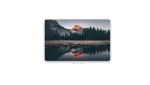
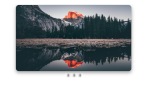
Added carousel arrows

diff --git a/tool/appTemplates.js b/tool/appTemplates.js
@@ -28,5 +28,5 @@ let templatePro001 = {"typeName":"templatePro001","image":"templatePro001.png","
 let templatePro002 = {"typeName":"templatePro002","image":"templatePro002.png","description":"Background image, right boxed texts",     "styleName":"","childsAllowed":"all","tag":"div","style":[],"phone":[],"attributes":[],"childs":[{"typeName":"divStack","description":"Stack","childsAllowed":"stack","tag":"div","style":[["height","500px",true],["width","100%",true]],"phone":[],"attributes":[],"childs":[{"typeName":"divStackChild","description":"Stack child","childsAllowed":"all","tag":"div","style":[["height","500px",true],["width","100%",true]],"phone":[],"attributes":[],"childs":[{"typeName":"imageBackground","description":"CSS background image","childsAllowed":"all","tag":"div","style":[["background","lightgrey",true],["background-position","center",true],["background-repeat","no-repeat",true],["background-size","cover",true],["background-image","url(\"./imagesTool/image3.jpg\")",true]],"phone":[],"attributes":[],"childs":[],"text":""}],"text":""},{"typeName":"divStackChild","description":"Stack child","childsAllowed":"all","tag":"div","style":[["height","100%",true],["right","0",true],["width","50%",true]],"phone":[["bottom","0",true],["height","max-content",true],["left","0",true],["width","100%",true]],"attributes":[],"childs":[{"typeName":"div","description":"Div","childsAllowed":"all","tag":"div","style":[["backdrop-filter","blur(3px)",true],["background","rgba(0, 0, 0, 0.5)",true],["height","100%",true],["padding","32px",true],["width","100%",true]],"phone":[],"attributes":[],"childs":[{"typeName":"divFlex","description":"Flex","childsAllowed":"flex","tag":"div","style":[["flex-direction","column",true],["height","100%",true],["justify-content","center",true]],"phone":[],"attributes":[],"childs":[{"typeName":"divFlexChild","description":"Flex child","childsAllowed":"all","tag":"div","style":[],"phone":[],"attributes":[],"childs":[{"typeName":"titleh1","description":"H1","childsAllowed":"none","tag":"h1","style":[["color","white",true],["font-size","2em",true],["font-weight","800",true],["height","max-content",true],["padding","0",true],["width","100%",true]],"phone":[],"attributes":[],"childs":[],"text":"To the infinity and beyond"}],"text":""},{"typeName":"divFlexChild","description":"Flex child","childsAllowed":"all","tag":"div","style":[["padding","0 0 32px 0",true]],"phone":[],"attributes":[],"childs":[{"typeName":"titleh2","description":"H2","childsAllowed":"none","tag":"h2","style":[["color","lightgrey",true],["font-size","1.5em",true],["font-weight","300",true],["height","max-content",true],["padding","0",true],["width","100%",true]],"phone":[],"attributes":[],"childs":[],"text":"There are no boundaries"}],"text":""},{"typeName":"divFlexChild","description":"Flex child","childsAllowed":"all","tag":"div","style":[],"phone":[],"attributes":[],"childs":[{"typeName":"linkBox","description":"Link box","childsAllowed":"all","tag":"a","style":[["text-decoration","none",true]],"phone":[],"attributes":[["href","/"],["target","_blank"]],"childs":[{"typeName":"div","description":"Div","childsAllowed":"all","tag":"div","style":[["background","black",true],["border","solid 1px lightgrey",true],["height","max-content",true],["padding","8px 16px",true]],"phone":[],"attributes":[],"childs":[{"typeName":"text","description":"Text","childsAllowed":"none","tag":"div","style":[["color","white",true],["font-size","1em",true],["height","max-content",true],["width","100%",true]],"phone":[],"attributes":[],"childs":[],"text":"Armadillo"}],"text":""}],"text":""}],"text":""}],"text":""}],"text":""}],"text":""}],"text":""}],"text":""}
 let templatePro003 = {"typeName":"templatePro003","image":"templatePro003.png","description":"Background image, left boxed texts",      "styleName":"","childsAllowed":"all","tag":"div","style":[],"phone":[],"attributes":[],"childs":[{"typeName":"divStack","description":"Stack","childsAllowed":"stack","tag":"div","style":[["height","500px",true],["width","100%",true]],"phone":[],"attributes":[],"childs":[{"typeName":"divStackChild","description":"Stack child","childsAllowed":"all","tag":"div","style":[["height","500px",true],["width","100%",true]],"phone":[],"attributes":[],"childs":[{"typeName":"imageBackground","description":"CSS background image","childsAllowed":"all","tag":"div","style":[["background","lightgrey",true],["background-position","center",true],["background-repeat","no-repeat",true],["background-size","cover",true],["background-image","url(\"./imagesTool/image7.jpg\")",true]],"phone":[],"attributes":[],"childs":[],"text":""}],"text":""},{"typeName":"divStackChild","description":"Stack child","childsAllowed":"all","tag":"div","style":[["height","calc(100% - 32px)",true],["left","16px",true],["top","16px",true],["width","25%",true]],"phone":[["bottom","8px",true],["height","max-content",true],["left","8px",true],["right","8px",true],["top","unset",true],["width","calc(100% - 16px)",true]],"attributes":[],"childs":[{"typeName":"div","description":"Div","childsAllowed":"all","tag":"div","style":[["backdrop-filter","blur(3px)",true],["background","rgba(100, 100,100,0.5)",true],["height","100%",true],["padding","32px",true],["width","100%",true]],"phone":[],"attributes":[],"childs":[{"typeName":"divFlex","description":"Flex","childsAllowed":"flex","tag":"div","style":[["flex-direction","column",true],["height","100%",true],["justify-content","center",true]],"phone":[],"attributes":[],"childs":[{"typeName":"divFlexChild","description":"Flex child","childsAllowed":"all","tag":"div","style":[],"phone":[],"attributes":[],"childs":[{"typeName":"titleh1","description":"H1","childsAllowed":"none","tag":"h1","style":[["color","white",true],["font-size","2em",true],["font-weight","800",true],["height","max-content",true],["padding","0",true],["width","100%",true]],"phone":[],"attributes":[],"childs":[],"text":"To the infinity and beyond"}],"text":""},{"typeName":"divFlexChild","description":"Flex child","childsAllowed":"all","tag":"div","style":[["padding","0 0 32px 0",true]],"phone":[],"attributes":[],"childs":[{"typeName":"titleh2","description":"H2","childsAllowed":"none","tag":"h2","style":[["color","lightgrey",true],["font-size","1.5em",true],["font-weight","300",true],["height","max-content",true],["padding","0",true],["width","100%",true]],"phone":[],"attributes":[],"childs":[],"text":"There are no boundaries"}],"text":""},{"typeName":"divFlexChild","description":"Flex child","childsAllowed":"all","tag":"div","style":[],"phone":[],"attributes":[],"childs":[{"typeName":"linkBox","description":"Link box","childsAllowed":"all","tag":"a","style":[["text-decoration","none",true]],"phone":[],"attributes":[["href","/"],["target","_blank"]],"childs":[{"typeName":"div","description":"Div","childsAllowed":"all","tag":"div","style":[["background","lightgrey",true],["border","solid 1px lightgrey",true],["border-radius","5px",true],["height","max-content",true],["padding","8px 16px",true]],"phone":[],"attributes":[],"childs":[{"typeName":"text","description":"Text","childsAllowed":"none","tag":"div","style":[["color","black",true],["font-size","1em",true],["font-weight","normal",true],["height","max-content",true],["text-transform","uppercase",true],["width","100%",true]],"phone":[],"attributes":[],"childs":[],"text":"Armadillo"}],"text":""}],"text":""}],"text":""}],"text":""}],"text":""}],"text":""}],"text":""}],"text":""}
 let templatePro004 = {"typeName":"templatePro004","image":"templatePro004.png","description":"Background image, bootm boxed texts",     "styleName":"","childsAllowed":"all","tag":"div","style":[],"phone":[],"attributes":[],"childs":[{"typeName":"divStack","description":"Stack","childsAllowed":"stack","tag":"div","style":[["height","500px",true],["width","100%",true]],"phone":[],"attributes":[],"childs":[{"typeName":"divStackChild","description":"Stack child","childsAllowed":"all","tag":"div","style":[["height","500px",true],["width","100%",true]],"phone":[],"attributes":[],"childs":[{"typeName":"imageBackground","description":"CSS background image","childsAllowed":"all","tag":"div","style":[["background","lightgrey",true],["background-position","center",true],["background-repeat","no-repeat",true],["background-size","cover",true],["background-image","url(\"./imagesTool/image10.jpg\")",true]],"phone":[],"attributes":[],"childs":[],"text":""}],"text":""},{"typeName":"divStackChild","description":"Stack child","childsAllowed":"all","tag":"div","style":[["bottom","16px",true],["height","max-content",true],["left","16px",true],["right","16px",true]],"phone":[["bottom","8px",true],["height","max-content",true],["left","8px",true],["right","8px",true],["top","unset",true],["width","calc(100% - 16px)",true]],"attributes":[],"childs":[{"typeName":"div","description":"Div","childsAllowed":"all","tag":"div","style":[["backdrop-filter","blur(3px)",true],["background","rgba(0, 0, 0,0.5)",true],["height","100%",true],["padding","32px",true],["width","100%",true]],"phone":[],"attributes":[],"childs":[{"typeName":"divFlex","description":"Flex","childsAllowed":"flex","tag":"div","style":[["align-items","center",true],["flex-direction","column",true],["height","100%",true],["justify-content","center",true]],"phone":[],"attributes":[],"childs":[{"typeName":"divFlexChild","description":"Flex child","childsAllowed":"all","tag":"div","style":[],"phone":[],"attributes":[],"childs":[{"typeName":"titleh1","description":"H1","childsAllowed":"none","tag":"h1","style":[["color","white",true],["font-size","2em",true],["font-weight","800",true],["height","max-content",true],["padding","0",true],["text-align","center",true],["width","100%",true]],"phone":[],"attributes":[],"childs":[],"text":"To the infinity and beyond"}],"text":""},{"typeName":"divFlexChild","description":"Flex child","childsAllowed":"all","tag":"div","style":[["padding","0 0 32px 0",true]],"phone":[],"attributes":[],"childs":[{"typeName":"titleh2","description":"H2","childsAllowed":"none","tag":"h2","style":[["color","lightgrey",true],["font-size","1.5em",true],["font-weight","300",true],["height","max-content",true],["padding","0",true],["text-align","center",true],["width","100%",true]],"phone":[],"attributes":[],"childs":[],"text":"There are no boundaries"}],"text":""},{"typeName":"divFlexChild","description":"Flex child","childsAllowed":"all","tag":"div","style":[],"phone":[],"attributes":[],"childs":[{"typeName":"linkBox","description":"Link box","childsAllowed":"all","tag":"a","style":[["text-decoration","none",true]],"phone":[],"attributes":[["href","/"],["target","_blank"]],"childs":[{"typeName":"div","description":"Div","childsAllowed":"all","tag":"div","style":[["background","black",true],["border","solid 1px lightgrey",true],["border-radius","5px",true],["height","max-content",true],["padding","8px 16px",true]],"phone":[],"attributes":[],"childs":[{"typeName":"text","description":"Text","childsAllowed":"none","tag":"div","style":[["color","lightgrey",true],["font-size","1em",true],["font-weight","normal",true],["height","max-content",true],["text-align","center",true],["text-transform","uppercase",true],["width","100%",true]],"phone":[],"attributes":[],"childs":[],"text":"Armadillo"}],"text":""}],"text":""}],"text":""}],"text":""}],"text":""}],"text":""}],"text":""}],"text":""}
-
+let templatePro005 = {"typeName":"templatePro005","image":"templatePro005.png","description":"Carousel with texts",                     "styleName":"","childsAllowed":"all","tag":"div","style":[],"phone":[],"attributes":[],"childs":[{"typeName":"carouselArrows","description":"Carousel with arrows","childsAllowed":"none","tag":"div","style":[],"phone":[],"attributes":[["class","carouselArrows"]],"childs":[{"typeName":"carouselFrame","description":"Carousel frame","childsAllowed":"none","tag":"div","style":[["height","500px",true]],"phone":[],"attributes":[],"childs":[{"typeName":"carouselImages","description":"Carousel images","childsAllowed":"carouselImage","tag":"div","style":[],"phone":[],"attributes":[["name","images"]],"childs":[{"typeName":"carouselImage","description":"Carousel image","childsAllowed":"all","tag":"div","style":[["background-image","url(\"./imagesTool/image9.jpg\")",true]],"phone":[],"attributes":[["name","carouselImage"]],"childs":[{"typeName":"divFlex","description":"Flex","childsAllowed":"divFlexChild","tag":"div","style":[["align-items","center",true],["flex-direction","column",true],["height","100%",true],["justify-content","center",true],["width","100%",true]],"phone":[],"attributes":[],"childs":[{"typeName":"divFlexChild","description":"Flex child","childsAllowed":"all","tag":"div","style":[["padding","32px",true]],"phone":[],"attributes":[],"childs":[{"typeName":"titleh1","description":"H1","childsAllowed":"none","tag":"h1","style":[["color","white",true],["font-size","2em",true],["font-weight","800",true],["height","max-content",true],["padding","0",true],["text-align","center",true],["width","100%",true]],"phone":[],"attributes":[],"childs":[],"text":"Enjoy teamworking"}],"text":""},{"typeName":"divFlexChild","description":"Flex child","childsAllowed":"all","tag":"div","style":[["padding","32px",true]],"phone":[],"attributes":[],"childs":[{"typeName":"titleh3","description":"H3","childsAllowed":"none","tag":"h3","style":[["color","white",true],["font-size","1.25em",true],["font-weight","600",true],["height","max-content",true],["padding","0",true],["text-align","center",true],["width","100%",true]],"phone":[],"attributes":[],"childs":[],"text":"Small improvements that makes it great"}],"text":""}],"text":""}],"text":""},{"typeName":"carouselImage","description":"Carousel image","childsAllowed":"all","tag":"div","style":[["background-image","url(\"./imagesTool/image8.jpg\")",true]],"phone":[],"attributes":[["name","carouselImage"]],"childs":[{"typeName":"divFlex","description":"Flex","childsAllowed":"divFlexChild","tag":"div","style":[["align-items","center",true],["flex-direction","column",true],["height","100%",true],["justify-content","center",true],["width","100%",true]],"phone":[],"attributes":[],"childs":[{"typeName":"divFlexChild","description":"Flex child","childsAllowed":"all","tag":"div","style":[["padding","32px",true]],"phone":[],"attributes":[],"childs":[{"typeName":"titleh1","description":"H1","childsAllowed":"none","tag":"h1","style":[["color","white",true],["font-size","2em",true],["font-weight","800",true],["height","max-content",true],["padding","0",true],["text-align","center",true],["width","100%",true]],"phone":[],"attributes":[],"childs":[],"text":"Investing in your clients"}],"text":""},{"typeName":"divFlexChild","description":"Flex child","childsAllowed":"all","tag":"div","style":[["padding","32px",true]],"phone":[],"attributes":[],"childs":[{"typeName":"titleh3","description":"H3","childsAllowed":"none","tag":"h3","style":[["color","white",true],["font-size","1.25em",true],["font-weight","600",true],["height","max-content",true],["padding","0",true],["text-align","center",true],["width","100%",true]],"phone":[],"attributes":[],"childs":[],"text":"There are no boundaries"}],"text":""}],"text":""}],"text":""}],"text":""}],"text":""},{"typeName":"carouselArrowLeftBox","description":"Left arrow box","childsAllowed":"none","tag":"div","style":[],"phone":[],"attributes":[["class","carouselArrow"]],"childs":[{"typeName":"carouselArrowLeft","description":"Left arrow","childsAllowed":"none","tag":"div","style":[],"phone":[],"attributes":[["onclick","setCarouselArrows(this, \"left\")"]],"childs":[],"text":""}],"text":""},{"typeName":"carouselArrowRightBox","description":"Right arrow box","childsAllowed":"none","tag":"div","style":[],"phone":[],"attributes":[["class","carouselArrow carouselArrowRight"]],"childs":[{"typeName":"carouselArrowRight","description":"Right arrow","childsAllowed":"none","tag":"div","style":[],"phone":[],"attributes":[["onclick","setCarouselArrows(this, \"right\")"]],"childs":[],"text":""}],"text":""}],"text":""}],"text":""}
 

diff --git a/tool/appTypes.js b/tool/appTypes.js
@@ -69,8 +69,7 @@ let div = {
         ['width', 'initial', true],
     ],
     attributes: [
-        ['id', 'initial'],
-        ['class', 'initial']
+        ['id', 'initial']
     ],
     script: ``,
     text: ``,
@@ -632,7 +631,7 @@ let carouselDots = {
     text: ``,
     childs: [
         {
-            typeName: 'carouselDotsFrame',
+            typeName: 'carouselFrame',
             description: 'Carousel frame',
             tag: 'div',
             childsAllowed: 'none',
@@ -649,10 +648,10 @@ let carouselDots = {
             text: ``,
             childs: [
                 {
-                    typeName: 'carouselDotsImages',
+                    typeName: 'carouselImages',
                     description: 'Carousel images',
                     tag: 'div',
-                    childsAllowed: 'carouselDotsImage',
+                    childsAllowed: 'carouselImage',
                     style: [],
                     phone: [],
                     attributes: [
@@ -661,8 +660,8 @@ let carouselDots = {
                     script: ``,
                     text: ``,
                     childs: [
-                        { typeName: 'carouselDotsImage', description: 'Carousel image', image: '', tag: 'div', childsAllowed: 'none', style: [ ['background-image','url("./imagesTool/image4.jpg")', true], ], phone: [], attributes: [], script: ``, text: ``, childs: [] },
-                        { typeName: 'carouselDotsImage', description: 'Carousel image', image: '', tag: 'div', childsAllowed: 'none', style: [ ['background-image','url("./imagesTool/image8.jpg")', true], ], phone: [], attributes: [], script: ``, text: ``, childs: [] }
+                        { typeName: 'carouselImage', description: 'Carousel image', image: '', tag: 'div', childsAllowed: 'all', style: [ ['background-image','url("./imagesTool/image4.jpg")', true], ], phone: [], attributes: [['name', 'carouselImage']], script: ``, text: ``, childs: [] },
+                        { typeName: 'carouselImage', description: 'Carousel image', image: '', tag: 'div', childsAllowed: 'all', style: [ ['background-image','url("./imagesTool/image8.jpg")', true], ], phone: [], attributes: [['name', 'carouselImage']], script: ``, text: ``, childs: [] }
                     ]
                 },
             ]
@@ -685,40 +684,72 @@ let carouselDots = {
     ]
 }
 
-let carouselDotsImage = {
-    typeName: 'carouselDotsImage',
-    description: 'Carousel image',
-    image: '',
-    tag: 'div',
-    childsAllowed: 'none',
-    style: [
-        ['background-image','url("./imagesTool/image0.jpg")', true],
-    ],
-    phone: [],
-    attributes: [],
-    script: ``,
-    text: ``,
-    childs: []
-}
-
-let carouselDotsIndicator = {
-    typeName: 'carouselDotsIndicator',
-    description: 'Carousel indicator',
-    image: '',
+let carouselArrows = {
+    typeName: 'carouselArrows',
+    description: 'Carousel with arrows',
+    image: 'previewCarouselArrows.png',
     tag: 'div',
     childsAllowed: 'none',
     style: [],
     phone: [],
     attributes: [
-        ['name', 'indicator'],
-        ['onclick', 'setCarouselDots(this)']
+       ['class', 'carouselArrows'],
     ],
     script: ``,
     text: ``,
-    childs: []
+    childs: [
+        {
+            typeName: 'carouselFrame',
+            description: 'Carousel frame',
+            tag: 'div',
+            childsAllowed: 'none',
+            style: [
+                ['border-radius', 'initial', true],
+                ['box-shadow', 'initial', true],
+                ['height', '350px', true]
+            ],
+            phone: [
+                ['height', 'initial', true]
+            ],
+            attributes: [],
+            script: ``,
+            text: ``,
+            childs: [
+                {
+                    typeName: 'carouselImages',
+                    description: 'Carousel images',
+                    tag: 'div',
+                    childsAllowed: 'carouselImage',
+                    style: [],
+                    phone: [],
+                    attributes: [
+                        ['name', 'images']
+                    ],
+                    script: ``,
+                    text: ``,
+                    childs: [
+                        { typeName: 'carouselImage', description: 'Carousel image', image: '', tag: 'div', childsAllowed: 'all', style: [ ['background-image','url("./imagesTool/image4.jpg")', true], ], phone: [], attributes: [['name', 'carouselImage']], script: ``, text: ``, childs: [] },
+                        { typeName: 'carouselImage', description: 'Carousel image', image: '', tag: 'div', childsAllowed: 'all', style: [ ['background-image','url("./imagesTool/image8.jpg")', true], ], phone: [], attributes: [['name', 'carouselImage']], script: ``, text: ``, childs: [] }
+                    ]
+                },
+            ]
+        },
+        { typeName: 'carouselArrowLeftBox', description: 'Left arrow box', tag: 'div', childsAllowed: 'none', style: [], phone: [], attributes: [ ['class', 'carouselArrow'] ], script: ``, text: ``, childs: [ { typeName: 'carouselArrowLeft', description: 'Left arrow', tag: 'div', childsAllowed: 'none', style: [], phone: [], attributes: [ ['onclick', 'setCarouselArrows(this, "left")'] ], script: ``, text: ``, childs: [] } ] },
+        { typeName: 'carouselArrowRightBox', description: 'Right arrow box', tag: 'div', childsAllowed: 'none', style: [], phone: [], attributes: [ ['class', 'carouselArrow carouselArrowRight'] ], script: ``, text: ``, childs: [ { typeName: 'carouselArrowRight', description: 'Right arrow', tag: 'div', childsAllowed: 'none', style: [], phone: [], attributes: [ ['onclick', 'setCarouselArrows(this, "right")'] ], script: ``, text: ``, childs: [] } ] }
+    ]
 }
 
-// let templateCarousel000 = {"typeName":"templateCarousel00X","image":"templateCarousel000.png","description":"Carousel with right text", "styleName":"","childsAllowed":"all","tag":"div","style":[],"phone":[],"attributes":[],"childs":[{"typeName":"div","description":"Div","childsAllowed":"all","tag":"div","style":[],"phone":[],"attributes":[],"childs":[{"typeName":"div","description":"Div","childsAllowed":"all","tag":"div","style":[["background","lightgrey",true],["box-shadow","0 10px 16px 0 rgba(0,0,0,0.2), 0 6px 20px 0 rgba(0,0,0,0.19)",true],["border-radius","15px",true],["height","350px",true],["overflow","hidden",true],["width","100%",true]],"phone":[],"attributes":[],"childs":[{"typeName":"div","description":"Div","childsAllowed":"all","tag":"div","style":[["height","100%",true],["transform","translateX(0px)",true],["width","100%",true]],"phone":[],"attributes":[],"childs":[{"typeName":"divFlex","description":"Flex","childsAllowed":"flex","tag":"div","style":[["height","100%",true]],"phone":[],"attributes":[],"childs":[{"typeName":"divFlexChild","description":"Flex child","childsAllowed":"all","tag":"div","style":[["min-width","100%",true]],"phone":[],"attributes":[],"childs":[{"typeName":"imageBackground","description":"CSS background image","childsAllowed":"all","tag":"div","style":[["background","lightgrey",true],["background-position","center",true],["background-repeat","no-repeat",true],["background-size","cover",true],["background-image","url(\"./imagesTool/image4.jpg\")",true]],"phone":[],"attributes":[],"childs":[],"text":""}],"text":""},{"typeName":"divFlexChild","description":"Flex child","childsAllowed":"all","tag":"div","style":[["min-width","100%",true]],"phone":[],"attributes":[],"childs":[{"typeName":"imageBackground","description":"CSS background image","childsAllowed":"all","tag":"div","style":[["background","lightgrey",true],["background-position","center",true],["background-repeat","no-repeat",true],["background-size","cover",true],["background-image","url(\"./imagesTool/image8.jpg\")",true]],"phone":[],"attributes":[],"childs":[],"text":""}],"text":""},{"typeName":"divFlexChild","description":"Flex child","childsAllowed":"all","tag":"div","style":[["min-width","100%",true]],"phone":[],"attributes":[],"childs":[{"typeName":"imageBackground","description":"CSS background image","childsAllowed":"all","tag":"div","style":[["background","lightgrey",true],["background-position","center",true],["background-repeat","no-repeat",true],["background-size","cover",true],["background-image","url(\"./imagesTool/image9.jpg\")",true]],"phone":[],"attributes":[],"childs":[],"text":""}],"text":""}],"text":""}],"text":""}],"text":""},{"typeName":"div","description":"Div","childsAllowed":"all","tag":"div","style":[["height","max-content",true],["padding","8px 0",true]],"phone":[],"attributes":[],"childs":[],"text":""},{"typeName":"divFlex","description":"Flex","childsAllowed":"flex","tag":"div","style":[["align-items","center",true],["height","24px",true],["justify-content","center",true]],"phone":[],"attributes":[],"childs":[{"typeName":"divFlexChild","description":"Flex child","childsAllowed":"all","tag":"div","style":[["padding","0 8px",true]],"phone":[],"attributes":[],"childs":[{"typeName":"div","description":"Div","childsAllowed":"all","tag":"div","style":[["border","solid 2px grey",true],["border-radius","100%",true],["cursor","pointer",true],["height","16px",true],["width","16px",true]],"phone":[],"attributes":[],"childs":[],"text":""}],"text":""},{"typeName":"divFlexChild","description":"Flex child","childsAllowed":"all","tag":"div","style":[["padding","0 8px",true]],"phone":[],"attributes":[],"childs":[{"typeName":"div","description":"Div","childsAllowed":"all","tag":"div","style":[["border","solid 2px grey",true],["border-radius","100%",true],["cursor","pointer",true],["height","16px",true],["width","16px",true]],"phone":[],"attributes":[],"childs":[],"text":""}],"text":""},{"typeName":"divFlexChild","description":"Flex child","childsAllowed":"all","tag":"div","style":[["padding","0 8px",true]],"phone":[],"attributes":[],"childs":[{"typeName":"div","description":"Div","childsAllowed":"all","tag":"div","style":[["border","solid 2px grey",true],["border-radius","100%",true],["cursor","pointer",true],["height","16px",true],["width","16px",true]],"phone":[],"attributes":[],"childs":[],"text":""}],"text":""}],"text":""}],"text":""}],"text":""}
+let carouselFrame = { typeName: 'carouselFrame', description: 'Carousel frame', tag: 'div', childsAllowed: 'none', style: [['border-radius', 'initial', true], ['box-shadow', 'initial', true], ['height', '350px', true]], phone: [['height', 'initial', true]], attributes: [], script: ``, text: ``, childs: []}
+let carouselImages = { typeName: 'carouselImages', description: 'Carousel images', tag: 'div', childsAllowed: 'carouselImage', style: [], phone: [], attributes: [['name', 'images']], script: ``, text: ``, childs: [] }
+let carouselImage = { typeName: 'carouselImage', description: 'Carousel image', image: '', tag: 'div', childsAllowed: 'all', style: [ ['background-image','url("./imagesTool/image0.jpg")', true], ], phone: [], attributes: [['name', 'carouselImage']], script: ``, text: ``, childs: [] }
+let carouselArrowLeft = { typeName: 'carouselArrowLeft', description: 'Left arrow', tag: 'div', childsAllowed: 'none', style: [], phone: [], attributes: [ ['onclick', 'setCarouselArrows(this, "left")'] ], script: ``, text: ``, childs: [] }
+let carouselArrowLeftBox = { typeName: 'carouselArrowLeftBox', description: 'Left arrow box', tag: 'div', childsAllowed: 'none', style: [], phone: [], attributes: [ ['class', 'carouselArrow'] ], script: ``, text: ``, childs: [ { typeName: 'carouselArrowsLeft', description: 'Left arrow', tag: 'div', childsAllowed: 'none', style: [], phone: [], attributes: [ ['onclick', 'setCarouselArrows(this, "left")'] ], script: ``, text: ``, childs: [] } ] }
+let carouselArrowRight = { typeName: 'carouselArrowRight', description: 'Right arrow', tag: 'div', childsAllowed: 'none', style: [], phone: [], attributes: [ ['onclick', 'setCarouselArrows(this, "right")'] ], script: ``, text: ``, childs: [] }
+let carouselArrowRightBox = { typeName: 'carouselArrowRightBox', description: 'Right arrow box', tag: 'div', childsAllowed: 'none', style: [], phone: [], attributes: [ ['class', 'carouselArrow carouselArrowRight'] ], script: ``, text: ``, childs: [] }
+let carouselDotsIndicators = { typeName: 'carouselDotsIndicators', description: 'Carousel indicators', tag: 'div', childsAllowed: 'carouselDotsIndicator', style: [], phone: [], attributes: [], script: ``, text: ``, childs: [] }
+let carouselDotsIndicator = { typeName: 'carouselDotsIndicator', description: 'Carousel indicator', image: '', tag: 'div', childsAllowed: 'none', style: [], phone: [], attributes: [ ['name', 'indicator'], ['onclick', 'setCarouselDots(this)'] ], script: ``, text: ``, childs: [] }
+
+
 
 /*
 let div = {

diff --git a/tool/appPreview.js b/tool/appPreview.js
@@ -26,6 +26,7 @@ class SdwToolPreview extends HTMLElement {
             overflow-y: auto;
             position: absolute;
             top: 0;
+            user-select: unset;
             width: calc(100% - 500px);
         }
         .root > div[name="buttons"] {
@@ -142,6 +143,63 @@ class SdwToolPreview extends HTMLElement {
         }
         .carouselDotsUnselected {
             background-color: initial !important;
+        }
+        .carouselArrows {
+            align-items: center;
+            box-sizing: border-box;
+            display: flex;
+            flex-direction:column;
+            margin: 0;
+            position: relative;
+            width: 100%;
+        }
+        .carouselArrows > div:first-child {
+            height: 500px;
+            overflow: hidden;
+            width: 100%;
+        }
+        .carouselArrows > div:first-child > div {
+            display: flex;
+            height: 100%;
+            transform: translate(0px);
+            transition: transform 0.3s ease;
+            will-change: transform;
+        }
+        .carouselArrows > div:first-child > div > div {
+            background-color: darkgray;
+            background-repeat: no-repeat;
+            background-position: center;
+            background-size: cover;
+            height: 100%;
+            min-width: 100%;
+        }
+        .carouselArrows .carouselArrow {
+            align-items: center;
+            bottom: 0;
+            display: flex;
+            left: 0;
+            position: absolute;
+            top: 0;
+        }
+        .carouselArrows .carouselArrow > div {
+            border-top: solid 4px #fff;
+            border-right: solid 4px #fff;
+            cursor: pointer;
+            height: 15px;
+            margin: 15px;
+            opacity: 0.75;
+            transform: rotateZ(-135deg);
+            width: 15px;
+        }
+        .carouselArrows .carouselArrow > div:hover {
+            opacity: 1;
+        }
+        .carouselArrows .carouselArrowRight {
+            left: unset;
+            right: 0;
+        }
+        .carouselArrows .carouselArrowRight > div {
+            transform: rotateZ(45deg);
         }
         `
         this.shadow.appendChild(this.elmStyle)

diff --git a/tool/script.js b/tool/script.js
@@ -3,9 +3,7 @@ function setCarouselDots(ref) {
     let obj = ref.parentNode.parentNode
     let refImages = obj.querySelector('div[name="images"]')
     let refIndicators = obj.querySelectorAll('div[name="indicator"]')
-    console.log(obj)
-    console.log(refImages)
-    console.log(refIndicators)
+
     for (cnt = 0; cnt < refIndicators.length; cnt = cnt + 1) {
         if (refIndicators[cnt] == ref) {
             refImages.style.transform = 'translateX(-' + (cnt * 100) + '%)'
@@ -16,4 +14,22 @@ function setCarouselDots(ref) {
             refIndicators[cnt].classList.add('carouselDotsUnselected')
         }
     }
+}
+
+function setCarouselArrows(ref, direction) {
+    let cnt = 0
+    let num = 0
+    let obj = ref.parentNode.parentNode
+    let refImages = obj.querySelector('div[name="images"]')
+    let numImages = (refImages.querySelectorAll('div[name="carouselImage"]')).length
+
+    if (refImages.style.transform != '') {
+        num = -1 * (parseInt((refImages.style.transform.replace('translateX(', '')).replace('%)', '')) / 100)
+    }
+
+    if (direction == 'left') { num = num - 1; } else { num = num + 1; }
+    if (num < 0) { num = numImages - 1; } 
+    if (num >= numImages) { num = 0; }
+
+    refImages.style.transform = 'translateX(-' + (num * 100) + '%)'
 }

diff --git a/tool/app.js b/tool/app.js
@@ -4,7 +4,7 @@ let appTypeNames = [
     'divSticky', 'divMobile', 'divDesktop',
     'titleh1', 'titleh2', 'titleh3', 'text', 'textInline', 'textEllipsis', 'linkBox', 'linkInline',
     'image', 'imageBackground', 
-    'carouselDots'
+    'carouselDots', 'carouselArrows'
 ]
 
 let appTemplateNames = [
@@ -12,7 +12,7 @@ let appTemplateNames = [
     'templateTitle000', 'templateTitle001', 
     'templateText000', 'templateText001', 'templateText002', 'templateText003', 'templateText004', 'templateText005', 'templateText006', 'templateText007',
     'templateImage000', 'templateImage001', 'templateImage002', 'templateImage003', 'templateImage004', 'templateImage005',
-    'templatePro000', 'templatePro001', 'templatePro002', 'templatePro003', 'templatePro004',
+    'templatePro000', 'templatePro001', 'templatePro002', 'templatePro003', 'templatePro004', 'templatePro005'
 ]
 
 class App {

diff --git a/tool/appList.js b/tool/appList.js
@@ -291,6 +291,7 @@ class SdwToolListItem extends HTMLElement {
         }
         .main > div[name="description"] {
             flex-grow: 1;
+            font-size: 0.75em;
             overflow: hidden; 
             text-overflow: ellipsis; 
             white-space: nowrap;
